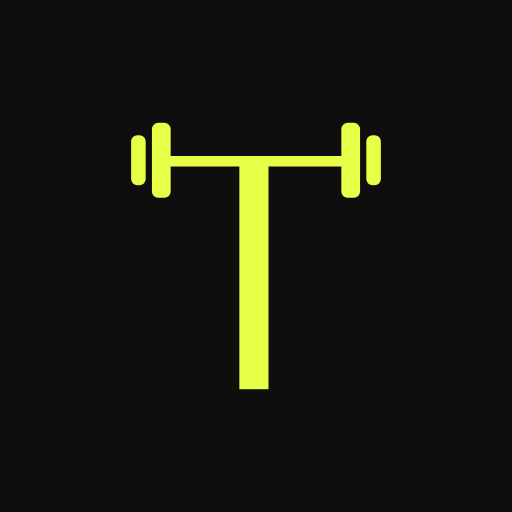
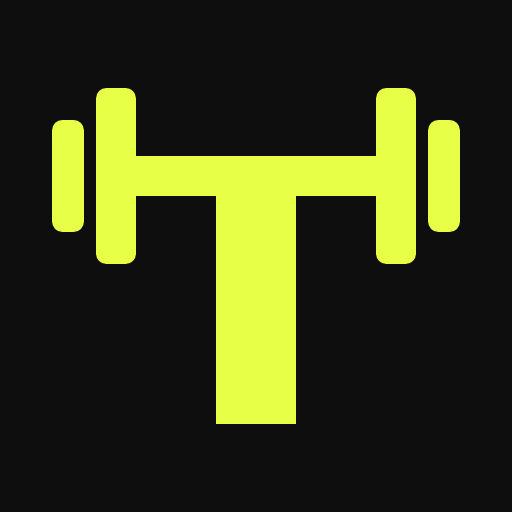
Add files via upload

Changed region(s): [[0.0938, 0.1562, 0.9062, 0.8438]]

diff --git a/app.html b/app.html
@@ -720,12 +720,12 @@
   <div style="display:flex;align-items:center;">
     <svg width="200" height="44" viewBox="0 24 680 136" xmlns="http://www.w3.org/2000/svg" style="display:block;">
       <style>@import url('https://fonts.googleapis.com/css2?family=Bebas+Neue&display=swap');</style>
-      <rect x="52" y="44" width="14" height="112" rx="0" fill="#e8ff47"/>
-      <rect x="10" y="44" width="100" height="5" rx="2.5" fill="#e8ff47"/>
-      <rect x="10" y="28" width="9" height="36" rx="3" fill="#e8ff47"/>
-      <rect x="0" y="34" width="7" height="24" rx="3" fill="#e8ff47"/>
-      <rect x="101" y="28" width="9" height="36" rx="3" fill="#e8ff47"/>
-      <rect x="113" y="34" width="7" height="24" rx="3" fill="#e8ff47"/>
+      <rect x="51" y="48" width="18" height="108" fill="#e8ff47"/>
+      <rect x="12" y="44" width="96" height="8" rx="1.5" fill="#e8ff47"/>
+      <rect x="9" y="28" width="10" height="40" rx="2.5" fill="#e8ff47"/>
+      <rect x="0" y="35" width="7" height="26" rx="2.5" fill="#e8ff47"/>
+      <rect x="101" y="28" width="10" height="40" rx="2.5" fill="#e8ff47"/>
+      <rect x="113" y="35" width="7" height="26" rx="2.5" fill="#e8ff47"/>
       <text x="72" y="156" font-family="'Bebas Neue', sans-serif" font-size="112" letter-spacing="1" fill="#e8ff47">OPSET</text>
     </svg>
   </div>
@@ -1193,12 +1193,12 @@
 <div id="auth-screen">
   <div class="auth-card">
     <svg id="auth-logo" width="148" height="64" viewBox="0 24 314 136" xmlns="http://www.w3.org/2000/svg" style="display:block;margin:0 auto;">
-        <rect x="52" y="44" width="14" height="112" fill="#e8ff47"/>
-        <rect x="10" y="44" width="100" height="5" rx="2.5" fill="#e8ff47"/>
-        <rect x="10" y="28" width="9" height="36" rx="3" fill="#e8ff47"/>
-        <rect x="0" y="34" width="7" height="24" rx="3" fill="#e8ff47"/>
-        <rect x="101" y="28" width="9" height="36" rx="3" fill="#e8ff47"/>
-        <rect x="113" y="34" width="7" height="24" rx="3" fill="#e8ff47"/>
+        <rect x="51" y="48" width="18" height="108" fill="#e8ff47"/>
+        <rect x="12" y="44" width="96" height="8" rx="1.5" fill="#e8ff47"/>
+        <rect x="9" y="28" width="10" height="40" rx="2.5" fill="#e8ff47"/>
+        <rect x="0" y="35" width="7" height="26" rx="2.5" fill="#e8ff47"/>
+        <rect x="101" y="28" width="10" height="40" rx="2.5" fill="#e8ff47"/>
+        <rect x="113" y="35" width="7" height="26" rx="2.5" fill="#e8ff47"/>
         <text x="72" y="156" font-family="'Bebas Neue', sans-serif" font-size="112" letter-spacing="1" fill="#e8ff47">OPSET</text>
       </svg>
     <div style="text-align:center;font-size:13px;color:var(--text2);margin-top:10px;">Your data, your way. Synced across your devices.</div>
@@ -1246,12 +1246,12 @@
     <div id="ob-step-1">
       <svg width="220" height="48" viewBox="0 24 680 136" xmlns="http://www.w3.org/2000/svg" style="margin-bottom:6px;display:block;">
         <style>@import url('https://fonts.googleapis.com/css2?family=Bebas+Neue&display=swap');</style>
-        <rect x="52" y="44" width="14" height="112" rx="0" fill="#e8ff47"/>
-        <rect x="10" y="44" width="100" height="5" rx="2.5" fill="#e8ff47"/>
-        <rect x="10" y="28" width="9" height="36" rx="3" fill="#e8ff47"/>
-        <rect x="0" y="34" width="7" height="24" rx="3" fill="#e8ff47"/>
-        <rect x="101" y="28" width="9" height="36" rx="3" fill="#e8ff47"/>
-        <rect x="113" y="34" width="7" height="24" rx="3" fill="#e8ff47"/>
+        <rect x="51" y="48" width="18" height="108" fill="#e8ff47"/>
+        <rect x="12" y="44" width="96" height="8" rx="1.5" fill="#e8ff47"/>
+        <rect x="9" y="28" width="10" height="40" rx="2.5" fill="#e8ff47"/>
+        <rect x="0" y="35" width="7" height="26" rx="2.5" fill="#e8ff47"/>
+        <rect x="101" y="28" width="10" height="40" rx="2.5" fill="#e8ff47"/>
+        <rect x="113" y="35" width="7" height="26" rx="2.5" fill="#e8ff47"/>
         <text x="72" y="156" font-family="'Bebas Neue', sans-serif" font-size="112" letter-spacing="1" fill="#e8ff47">OPSET</text>
       </svg>
       <div style="font-size:15px;color:var(--text);font-weight:600;margin-bottom:10px;">The training tracker for people who actually lift.</div>
@@ -4956,17 +4956,17 @@ function drawShareImage(s) {
   const ty = n => oy + (n - 24) * sc;
   ctx.fillStyle = accent;
   // T stem
-  ctx.fillRect(tx(52), ty(44), 14*sc, 112*sc);
+  ctx.fillRect(tx(51), ty(48), 18*sc, 108*sc);
   // Bar
-  ctx.beginPath(); ctx.roundRect(tx(10), ty(44), 100*sc, 5*sc, 2); ctx.fill();
+  ctx.beginPath(); ctx.roundRect(tx(12), ty(44), 96*sc, 8*sc, 1); ctx.fill();
   // Left inner large plate
-  ctx.beginPath(); ctx.roundRect(tx(10), ty(28), 9*sc, 36*sc, 2); ctx.fill();
+  ctx.beginPath(); ctx.roundRect(tx(9), ty(28), 10*sc, 40*sc, 1.5); ctx.fill();
   // Left outer small plate
-  ctx.beginPath(); ctx.roundRect(tx(0), ty(34), 7*sc, 24*sc, 2); ctx.fill();
+  ctx.beginPath(); ctx.roundRect(tx(0), ty(35), 7*sc, 26*sc, 1.5); ctx.fill();
   // Right inner large plate
-  ctx.beginPath(); ctx.roundRect(tx(101), ty(28), 9*sc, 36*sc, 2); ctx.fill();
+  ctx.beginPath(); ctx.roundRect(tx(101), ty(28), 10*sc, 40*sc, 1.5); ctx.fill();
   // Right outer small plate
-  ctx.beginPath(); ctx.roundRect(tx(113), ty(34), 7*sc, 24*sc, 2); ctx.fill();
+  ctx.beginPath(); ctx.roundRect(tx(113), ty(35), 7*sc, 26*sc, 1.5); ctx.fill();
   // OPSET
   ctx.font = '500 22px "Bebas Neue", sans-serif';
   ctx.letterSpacing = '1px';
